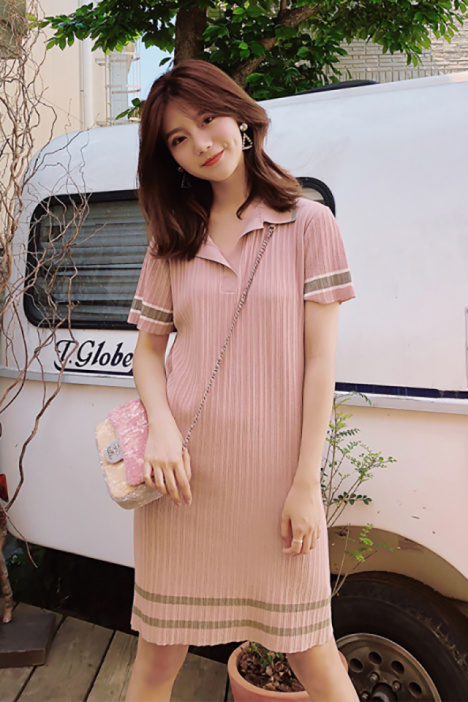
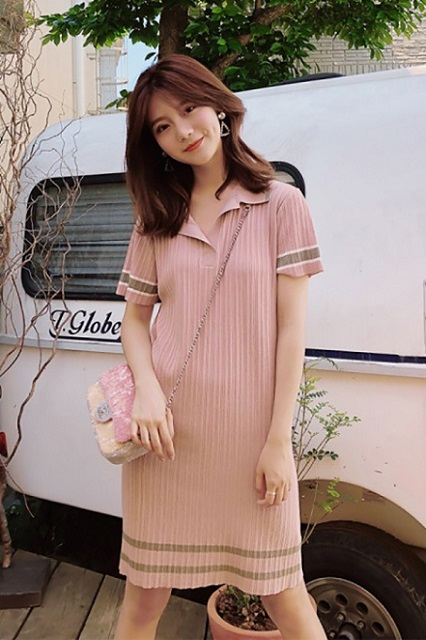
version 1.9

diff --git a/static/products_women.html b/static/products_women.html
@@ -22,18 +22,20 @@
 	    <div class="container "  >
 			<div class="row mb-5">
 				<div class="col-md-5 text-center p-2 pt-2">
-					<div>
-						<img src="img/products_women/p1.png" class="img-fluid big_img img-thumbnail" alt="">	
+					<div id="mask" class="p-absolute d-none"></div>
+					<div class="show_div">
+						<div id='super-mask' class="p-absolute"></div>
+						<img src="img/products_women/p4.png" class="img-fluid  img-thumbnail" alt="">	
 					</div class="">
 					<ul class="small_pic_ul d-flex  pt-2 pl-3 justify-content-around">
-						<li class="pic_li"><a href=""><img src="img/products_women/p1_small.png" alt="" class="small_pic img-thumbnail"></a></li>
-						<li class="pic_li "><a href=""><img src="img/products_women/p2_small.png" alt="" class="small_pic img-thumbnail"></a></li>
-						<li class="pic_li"><a href=""><img src="img/products_women/p3_small.png" alt="" class="small_pic img-thumbnail"></a></li>
-						<li class="pic_li"><a href=""><img src="img/products_women/p4_small.png" alt="" class="small_pic img-thumbnail"></a></li>
-						<li class="pic_li"><a href=""><img src="img/products_women/p5_small.png" alt="" class="small_pic img-thumbnail"></a></li>
+						<li class="pic_li"><a href=""><img src="img/products_women/p4_small.png" alt="" class="small_pic img-thumbnail" data-md='img/products_women/p4.png' data-lg='img/products_women/p4_big.png'></a></li>
+						<li class="pic_li "><a href=""><img src="img/products_women/p2_small.png" alt="" class="small_pic img-thumbnail" data-md='img/products_women/p2.png' data-lg='img/products_women/p2_big.png'></a></li>
+						<li class="pic_li"><a href="" ><img src="img/products_women/p3_small.png" alt="" class="small_pic img-thumbnail" data-md='img/products_women/p3.png' data-lg='img/products_women/p3_big.png'></a></li>
+						<li class="pic_li"><a href=""><img src="img/products_women/p4_small.png" alt="" class="small_pic img-thumbnail" data-md='img/products_women/p4.png' data-lg='img/products_women/p4_big.png'></a></li>
+						<li class="pic_li"><a href=""><img src="img/products_women/p5_small.png" alt="" class="small_pic img-thumbnail" data-md='img/products_women/p5.png' data-lg='img/products_women/p5_big.png'></a></li>
 					</ul>
 				</div>
-				<div class="col-md-5 p-2 pt-">
+				<div class="col-lg-5 col-md-7 p-2 pt-">
 					<div>
 						<h4>2018夏季新款韩版bf港风学院风polo领T恤裙百搭宽松休闲中长款短袖针织裙连衣裙女夏</h4>
 					</div>
@@ -52,7 +54,7 @@
 					</div>
 					<div class="text-muted pt-3 mt-3 " >						
 						<b class="mr-1">颜色:</b>						
-						<a href=""><img src="img/products_women/p1_small.png" alt="" class="color_pic img-thumbnail"></a>
+						<a href=""><img src="img/products_women/p2_small.png" alt="" class="color_pic img-thumbnail"></a>
 						<a href=""><img src="img/products_women/p5_small.png" alt="" class="color_pic img-thumbnail"></a>
 					</div>
 					<div class="d-flex pt-3 mt-3">
@@ -83,7 +85,7 @@
 						<img src="img/products_detail/4.png" alt="" class="products_logo">&nbsp;退货补运费
 					</div>
 				</div>
-				<div class="col-md-2 remai_border mt-1">
+				<div class="col-lg-2 remai_border mt-1">
 					<h6 class="text-muted text-center ">-热卖推荐-</h6>
 					<ul class="list-unstyled  text-center remai_small">
 						<li><a href="" target="_blank"><img src="img/products_women/remai1.png" alt="" class="remai_pic img-thumbnail"></a><p>￥78</p></li>
@@ -382,5 +384,6 @@
 		<script src="../js/popper.min.js"></script>
 		<script src="../js/bootstrap.min.js"></script>
 		<!-- myself_js -->
+		<script src="../js/products_women.js"></script>
 	</body>
 </html>

diff --git a/js/products_women.js b/js/products_women.js
@@ -1,0 +1,39 @@
+$(function() {
+	//切换显示的图片
+	$mask = $('#mask')
+	var $ul = $('.small_pic_ul');
+	var $show_img = $('.show_div>img');
+	$ul.on('mouseover', 'img', function(event) {
+		var md = $(this).attr('data-md');
+		$show_img.attr('src', md);
+		$mask.css('background', `url(${$(this).attr('data-lg')})`);
+	});
+	//放大镜效果
+	var mask_size = 176;
+	var $show_div = $('.show_div')
+	var $smask = $('#super-mask')
+	var max_width = $smask.prop('width') - mask_size;
+	var max_height = $smask.prop('height') - mask_size;
+	$smask.hover(function() {
+		$mask.toggleClass('d-none');
+	}).mousemove(function(e) {
+		var top = e.offsetY - mask_size / 2;
+		var left = e.offsetX - mask_size / 2;
+		if (top < 0) {
+			top = 0;
+		} else if (top > max_height) {
+			top = max_height;
+		}
+		if (left < 0) {
+			left = 0;
+		} else if (left > max_width) {
+			left = max_width;
+		}
+		$mask.css({
+			left,
+			top,
+			'backgroundPosition': `${-2*left}px ${-2*top}px `
+		});
+
+	});
+})

diff --git a/css/products_women.css b/css/products_women.css
@@ -31,11 +31,14 @@
 	width: 1rem;
 	height: 1rem;
 }
-@media screen and (max-width: 767px) {
+@media screen and (max-width: 991px) {
 	.remai_small{
 		display: flex;
 		justify-content: between;
 	}
+}
+@media screen and (max-width: 767px) {
+	
 	.haixianggou {
 		display: flex !important;
 		justify-content: between !important;
@@ -78,4 +81,21 @@
 .haixianggou_title{
 	line-height:2.5rem;
 	margin: 0 auto;
+}
+#mask{
+  width:176px; 
+  height:176px;
+  background:url('../static/img/products_women/p4_big.png');
+ border-radius: 50%;
+
+}
+.p-absolute{
+	position: absolute;
+}
+.d-none{
+	display: none;
+}
+#super-mask{
+  width:95%; 
+  height:85%;
 }
